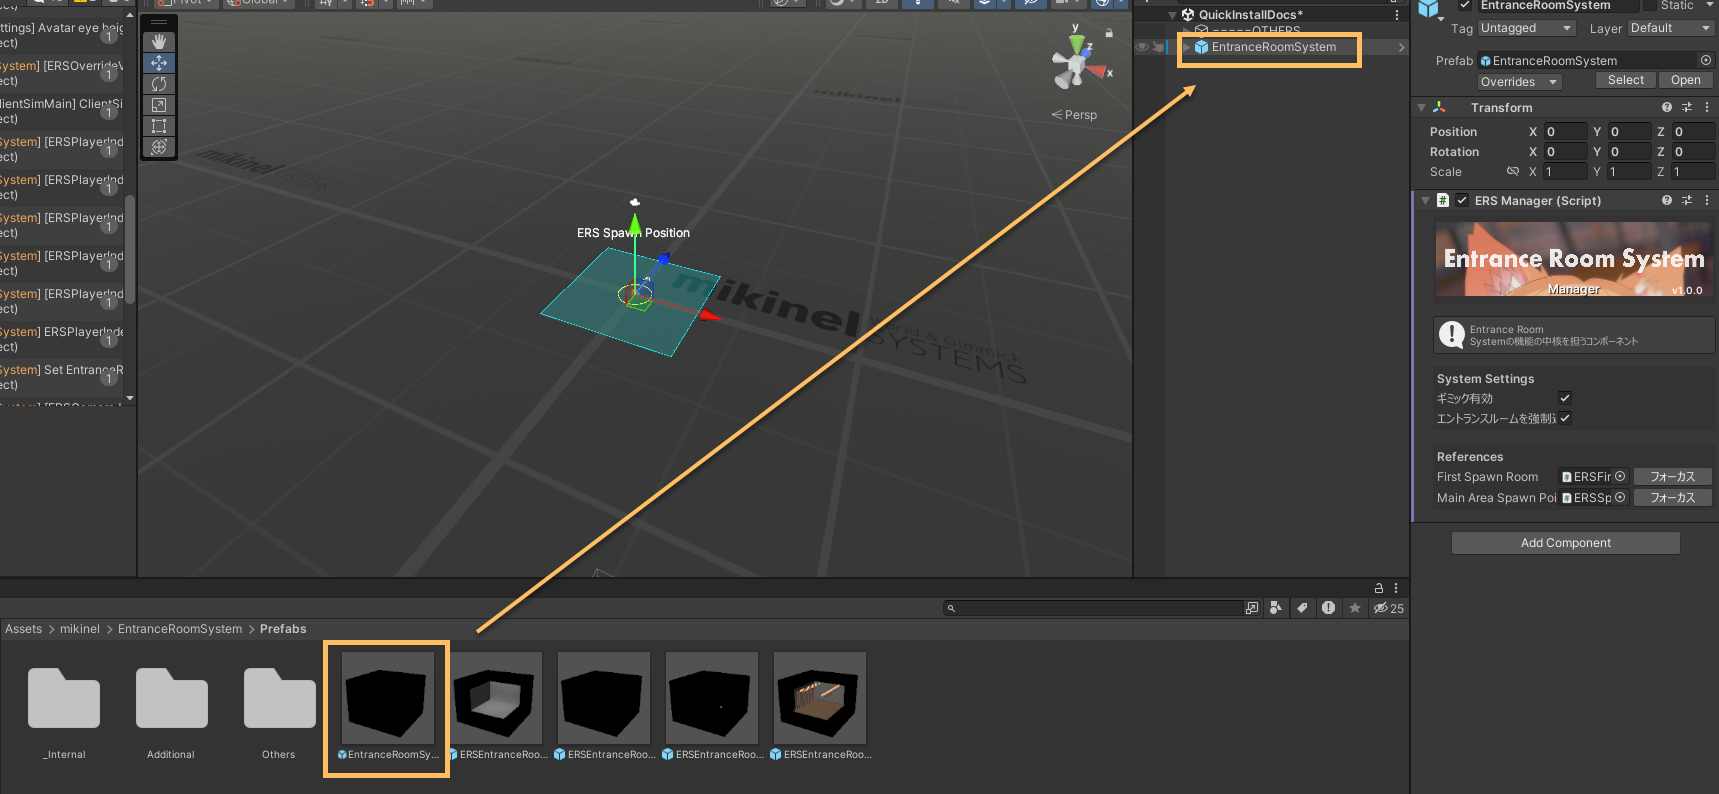
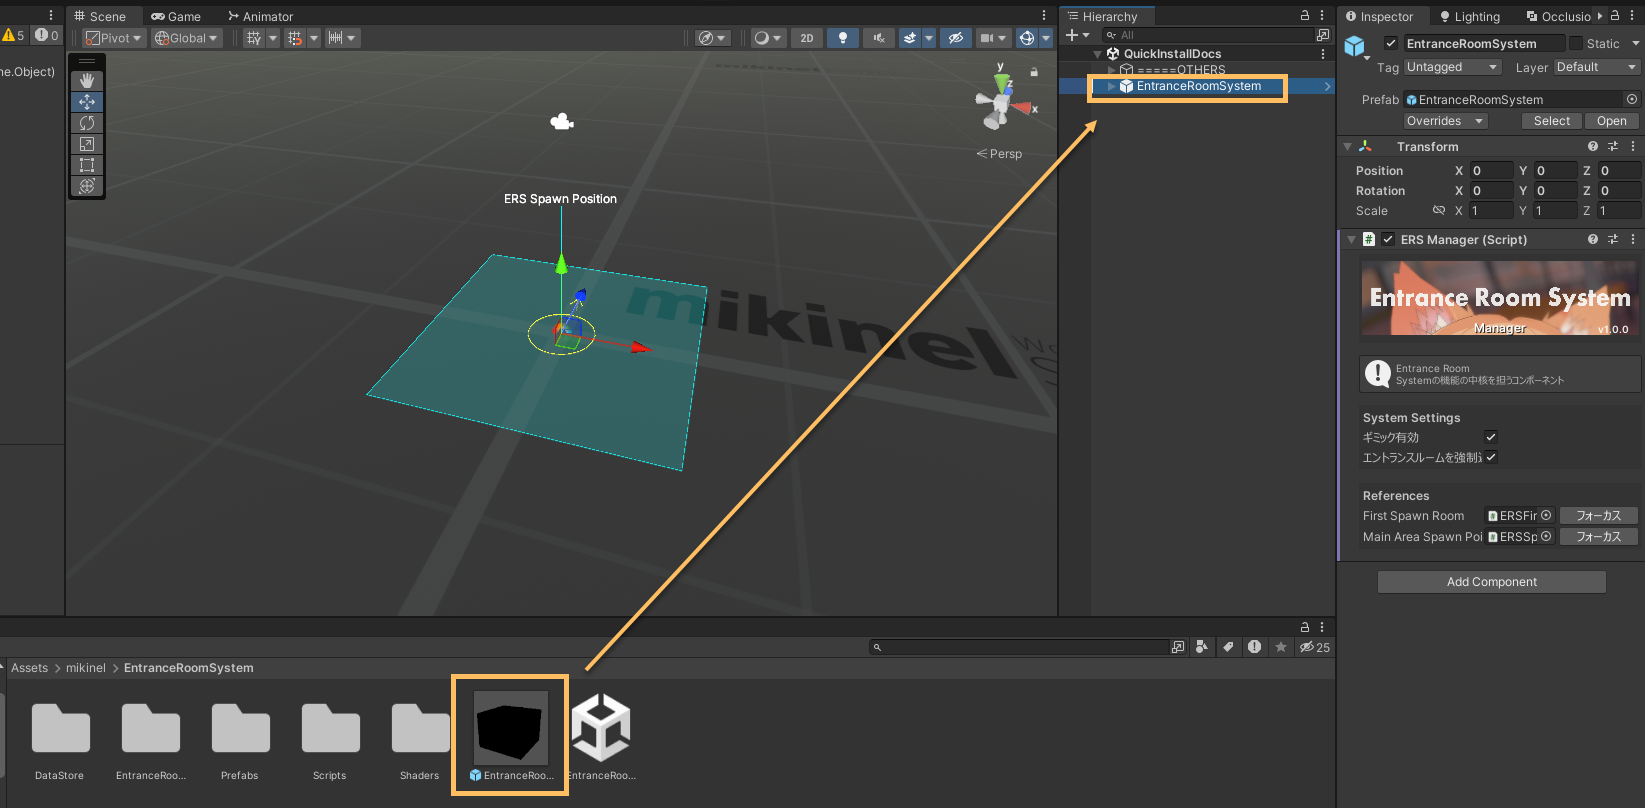
いろいろ編集

diff --git a/ers-docs/src/css/custom.css b/ers-docs/src/css/custom.css
@@ -58,3 +58,71 @@ article img {
   display: block;
   margin: 1rem auto;
 }
+
+.sample-room-gallery {
+  --ifm-spacing-horizontal: 0;
+  margin: 1.5rem 0 0;
+  display: flex;
+  flex-wrap: wrap;
+  gap: 1rem;
+  justify-content: center;
+}
+
+.sample-room-gallery .col {
+  padding: 0;
+  margin: 0;
+  display: flex;
+  flex-direction: column;
+}
+
+.sample-room-gallery__item {
+  flex: 1 1 calc(50% - 1rem);
+  max-width: calc(50% - 1rem);
+  border: 1px solid var(--ifm-color-emphasis-200);
+  border-radius: 16px;
+  background: var(--ifm-card-background-color, var(--ifm-background-surface-color));
+  box-shadow: 0 18px 40px rgba(15, 23, 42, 0.06);
+  overflow: hidden;
+  display: flex;
+  flex-direction: column;
+}
+
+.sample-room-gallery__item .clickableImage {
+  width: 100%;
+  max-width: none;
+  max-height: none;
+  height: auto;
+  aspect-ratio: 16 / 9;
+  object-fit: cover;
+  object-position: center;
+  margin: 0 !important;
+  border-radius: 0;
+}
+
+.sample-room-gallery__caption {
+  margin: 0;
+  padding: 1rem;
+  text-align: center;
+}
+
+@media screen and (max-width: 996px) {
+  .sample-room-gallery {
+    gap: 0.75rem;
+  }
+
+  .sample-room-gallery__item {
+    flex: 1 1 calc(50% - 0.75rem);
+    max-width: calc(50% - 0.75rem);
+  }
+}
+
+@media screen and (max-width: 640px) {
+  .sample-room-gallery {
+    flex-direction: column;
+  }
+
+  .sample-room-gallery__item {
+    flex: 1 1 100%;
+    max-width: 100%;
+  }
+}

diff --git a/ers-docs/sidebars.ts b/ers-docs/sidebars.ts
@@ -24,6 +24,8 @@ const sidebars: SidebarsConfig = {
       items: [
         'getting-started',
         'add-prefab',
+        'setup-transforms',
+        'add-entrance-room',
         'world-upload',
       ],
     },
@@ -32,6 +34,7 @@ const sidebars: SidebarsConfig = {
       label: '🟠 応用機能導入手順',
       collapsed: false,
       items: [
+        'custom-entrance-room',
         'control-panel',
       ],
     },

diff --git a/ers-docs/docs/custom-entrance-room.md b/ers-docs/docs/custom-entrance-room.md
@@ -1,0 +1,48 @@
+---
+sidebar_position: 4
+---
+
+import ClickableImage from '@site/src/components/ClickableImage';
+
+# エントランスルームのカスタム
+
+サンプルPrefab（`ERSEntranceRoom_Sample*`）を基に独自のエントランスルームを構築する際のポイントをまとめています。見た目や演出を自分のワールドに合わせて調整しつつ、Entrance Room System（ERS）の動作を維持するために以下の手順を参考にしてください。
+
+## 1. Prefabを複製して編集する
+
+- `Assets/mikinel/EntranceRoomSystem/Prefabs` から任意のサンプルPrefabを複製し、編集用の名前を付けます。
+- 公式Prefabを直接編集するとアップデート時に上書きされる可能性があるため、必ず複製したものを使います。
+
+## 2. 見た目の調整
+
+- メッシュやマテリアル、照明などを自由に変更して外観を整えます。
+- UI テキスト（注意書きや同意ボタン）を自分のイベント内容に変更してください。
+- `Sample4 prefab` のようにライトベイク前提の部屋を使用する場合は、組み込みのライト設定を参考にライトベイクを実行します。
+
+## 3. 必須オブジェクトを残す
+
+エントランスルームPrefab内には ERS が参照する必須オブジェクトがあります。以下は削除や名称変更をしないでください。
+
+- `ERSInteractAgreementAccessController`（同意ボタンやトリガーを管理）
+- `ERSAgreementDisplay`（注意書き UI）
+- `ERSPlayerPresenceBlocker` などのトラッキング用オブジェクト
+
+必要に応じて UI を別レイアウトに差し替える際は、対応するコンポーネントを保持したまま配置を調整してください。
+
+## 4. デバッグ・確認
+
+1. カスタムした Prefab をシーンに配置し、`ERSFirstSpawnRoom` から視認できる位置に設置します。
+2. `Play` モードで入室テストを行い、以下を確認します。
+   - 入室時にエントランスルームへ転送される。
+   - 注意書きの表示、同意ボタンやギミックが正しく動作する。
+   - 同意後に `ERSSpawnPointData_MainArea` へ転送される。
+
+## 5. よくある調整ポイント
+
+- **音量・BGM**: 独自の効果音やBGMを追加する場合、エントランスルーム専用の AudioSource を用意し、メインエリアへの音漏れがないか確認します。
+- **演出タイミング**: 粒子やアニメーションを追加した際は、同意ボタン操作と干渉しないようアニメーションのトリガータイミングを調整します。
+- **パフォーマンス**: 一度に複数のプレイヤーが訪れるため、シェーダーやパーティクル数を抑えて処理負荷を下げることを推奨します。
+
+---
+
+カスタム後は、`スポーン位置等の調整` ガイドに沿って `ERSFirstSpawnRoom` や `ERSSpawnPointData_MainArea` の位置も確認し、入室フロー全体が期待どおりに動作することをテストしてください。

diff --git a/ers-docs/docs/add-entrance-room.md b/ers-docs/docs/add-entrance-room.md
@@ -1,0 +1,39 @@
+---
+sidebar_position: 2.5
+---
+
+import ClickableImage from '@site/src/components/ClickableImage';
+
+# エントランスルームの配置
+
+エントランスルームは、1プレイヤーごとに1部屋が割り当てられる個別待機スペースです。イベントの注意書きを表示したり、演出を仕込んだりすることで、入場前の準備や世界観づくりに活用できます。
+
+## サンプルPrefabからエントランスルームを配置
+
+`Assets/mikinel/EntranceRoomSystem/Prefabs` ディレクトリには、予め用意されたエントランスルームの完成形サンプルが4種類含まれています。サンプルのエントランスルームの Prefab をシーンに配置することで、細かな設定をすることなく、EntranceRoomSystem を動作させることができるようになります。
+
+<ClickableImage src="/img/ers-entrance-room-sample-prefabs.png" alt="ERSEntranceRoom サンプルPrefab一覧" />
+<p style={{ textAlign: 'center' }}>サンプルのエントランスルームPrefab（4種）</p>
+
+<div className="row sample-room-gallery">
+  <div className="col col--3 sample-room-gallery__item">
+    <ClickableImage src="/img/ers-room-sample-1.png" alt="ERSEntranceRoom Sample1" />
+    <p className="sample-room-gallery__caption"><strong>Sample1 prefab</strong><br />必要最低限の灰色の部屋</p>
+  </div>
+  <div className="col col--3 sample-room-gallery__item">
+    <ClickableImage src="/img/ers-room-sample-2.png" alt="ERSEntranceRoom Sample2" />
+    <p className="sample-room-gallery__caption"><strong>Sample2 prefab</strong><br />全体が暗闇に包まれた空間</p>
+  </div>
+  <div className="col col--3 sample-room-gallery__item">
+    <ClickableImage src="/img/ers-room-sample-3.png" alt="ERSEntranceRoom Sample3" />
+    <p className="sample-room-gallery__caption"><strong>Sample3 prefab</strong><br />浮遊する同意用のキューブと<br />パーティクルで演出された部屋</p>
+  </div>
+  <div className="col col--3 sample-room-gallery__item">
+    <ClickableImage src="/img/ers-room-sample-4.png" alt="ERSEntranceRoom Sample4" />
+    <p className="sample-room-gallery__caption"><strong>Sample4 prefab</strong><br />扉から進む演出の<br />ライティングが施された部屋<br />（ライトベイクが必要です）</p>
+  </div>
+</div>
+
+## エントランスルームをカスタムする場合
+
+サンプルPrefabをベースに独自のエントランスルームを作成したい場合は、Prefabを複製してメッシュやマテリアル、UIテキスト、アニメーションなどを調整してください。詳細手順やカスタマイズ時の注意点は「[エントランスルームのカスタム](custom-entrance-room.md)」で解説しています。

diff --git a/ers-docs/docs/setup-transforms.md b/ers-docs/docs/setup-transforms.md
@@ -1,0 +1,29 @@
+---
+sidebar_position: 2.3
+---
+
+import ClickableImage from '@site/src/components/ClickableImage';
+
+# スポーン位置等の調整
+
+`EntranceRoomSystem.prefab` をシーンに配置したあとは、エントランスルームで使用する各オブジェクトの位置を調整します。
+
+- `ERSFirstSpawnRoom` オブジェクト — ワールド入室直後にプレイヤーが転送される待機ルーム
+- `ERSSpawnPointData_MainArea` オブジェクト — エントランスルームの次に転送されるメインエリアのスポーン地点
+
+## ERSFirstSpawnRoomオブジェクトの位置の調整
+
+`EntranceRoomSystem` オブジェクトの子階層にある `ERSFirstSpawnRoom` は、ワールド入室直後にプレイヤーが転送される待機ルームです。メインエリアから見えない位置に移動し、プレイヤーから直接視認できないようにします。
+
+<ClickableImage src="/img/ers-first-spawn-room.png" alt="ERSFirstSpawnRoom 配置例" />
+
+:::caution 注意
+- `VRC Scene Descriptor` に設定されている `Respawn Height Y`（強制的にリスポーンされる Y 座標）以下に配置しないでください
+- 原点から極端に離れた場所（例: `X=10,000`）への配置は避けることを推奨します。メインエリアの地中やカメラに映らない程度に離れた場所への配置がおすすめです（精度の限界による描画の乱れが発生します）
+:::
+
+## ERSSpawnPointData_MainAreaオブジェクトの位置の調整
+
+2で配置した `EntranceRoomSystem` オブジェクトの子階層にある `ERSSpawnPointData_MainArea` をワールドのメインエリアのスポーン地点（エントランスルームからの転送先）に配置します。
+
+<ClickableImage src="/img/ers-main-area-spawn-point.png" alt="ERSSpawnPointData_MainArea 配置例" />

diff --git a/ers-docs/docs/add-prefab.md b/ers-docs/docs/add-prefab.md
@@ -4,29 +4,20 @@ sidebar_position: 2
 
 import ClickableImage from '@site/src/components/ClickableImage';
 
-# Prefabの追加
+# Prefabの配置
 
-VoiceGroupControl2をプロジェクトに導入する最初のステップは、Prefabの追加です。
+Entrance Room System（ERS）をプロジェクトに導入する最初のステップは、`EntranceRoomSystem.prefab` をシーンに配置することです。この Prefab には ERS を動作させるための根幹の機能が含まれており、必ずシーンに1つ配置する必要があります。
 
-## Prefabの場所
+## EntranceRoomSystem.prefabの配置
 
-VGC2のメインPrefabは以下の場所にあります：
+`EntranceRoomSystem.prefab` は以下の場所にあります：
 
 ```
-Assets/mikinel/VoiceGroupControl2/VoiceGroupControl2.prefab
+Assets/mikinel/EntranceRoomSystem/EntranceRoomSystem.prefab
 ```
 
-<ClickableImage src="/img/add-prefab--project-folder-view.png" alt="VoiceGroupControl2フォルダ内のPrefabの場所" />
-
-## Prefabをシーンに追加
-
-`VoiceGroupControl2.prefab`をシーンに配置します。
-
-配置したPrefabにはVGCManagerコンポーネントがあります。
-
-<ClickableImage src="/img/add-prefab--scene-placement.png" alt="PrefabをHierarchyにドラッグ&ドロップ" />
+<ClickableImage src="/img/ers-prefab-in-scene.png" alt="EntranceRoomSystemフォルダ内のPrefabの場所" />
 
 :::caution 注意
-- VoiceGroupControl2.prefabはシーンに1つだけ配置してください。2つ以上配置すると正常に動作しません。
-- Prefab内のオブジェクトを削除したり、構造を変更したりしないでください。正常に動作しなくなる可能性があります。
+シーン内に複数の `EntranceRoomSystem.prefab` は配置しないでください。
 :::

diff --git a/ers-docs/docs/quick-installation.md b/ers-docs/docs/quick-installation.md
@@ -20,9 +20,9 @@ Entrance Room System（ERS）を短時間で導入するためのガイドです
 2. Unity プロジェクトで **Assets > Import Package > Custom Package** を選択します。
 3. ダウンロードした unitypackage を指定してインポートします。
 
-### 2. EntranceRoomSystem Prefab の配置
+### 2. EntranceRoomSystem.prefab の配置
 
-`Assets/mikinel/EntranceRoomSystem/Prefabs` フォルダに含まれる `EntranceRoomSystem.prefab` をシーンに配置します。
+`Assets/mikinel/EntranceRoomSystem/EntranceRoomSystem.prefab` をシーンに配置します。
 
 <ClickableImage src="/img/ers-prefab-in-scene.png" alt="EntranceRoomSystem Prefab 配置例" />
 
@@ -49,7 +49,7 @@ Entrance Room System（ERS）を短時間で導入するためのガイドです
 
 ### 5. ERSEntranceRoom オブジェクトの配置
 
-シーン上にエントランスルームを配置します。このクイックインストールでは、同梱されている `ERSEntranceRoom_Sample1.prefab`（灰色のキューブ型の部屋とサンプル注意書き）をシーンに追加し、手順3で移動したオブジェクトと同様にメインエリアから見えない位置へ配置します。
+シーン上にエントランスルームを配置します。このクイックインストールでは、同梱されている `ERSEntranceRoom_Sample1.prefab`（必要最低限の灰色の部屋）をシーンに追加し、手順3で移動したオブジェクトと同様にメインエリアから見えない位置へ配置します。
 
 <ClickableImage src="/img/ers-entrance-room-sample.png" alt="ERSEntranceRoom 配置例" />
 
